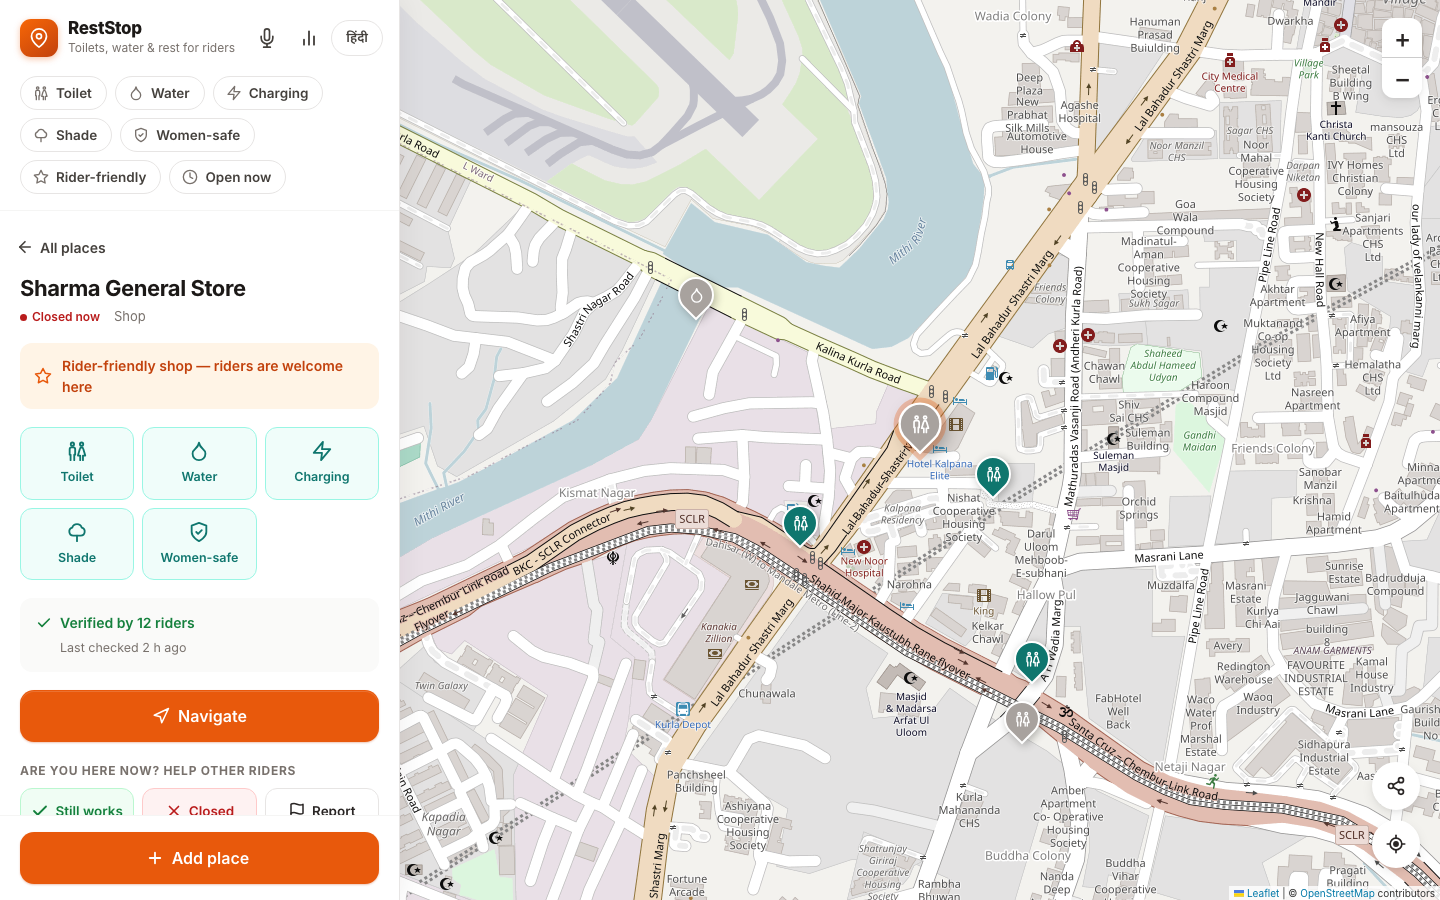
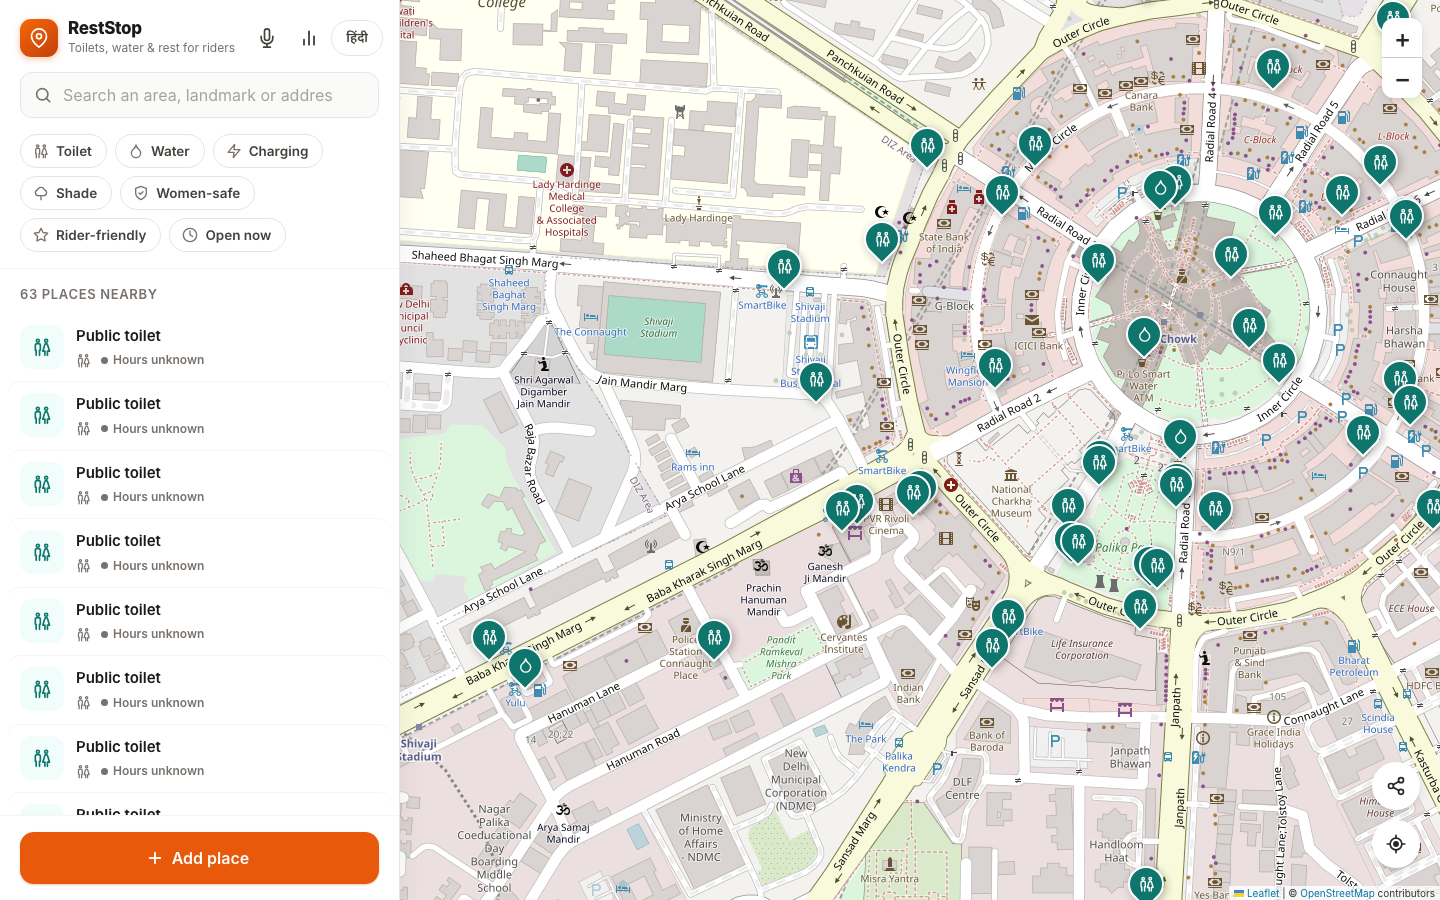
Rewrite README with real Delhi screenshots, architecture and API docs

diff --git a/README.md b/README.md
@@ -1,115 +1,135 @@
 <div align="center">
 
-<img src="static/icons/icon-192.png" width="88" alt="RestStop logo">
+<img src="static/icons/icon-192.png" width="96" alt="RestStop logo">
 
 # RestStop
 
-**Toilets, drinking water, charging and shade for the people who deliver our cities.**
+### Toilets, drinking water, charging and shade for the people who deliver our cities.
 
 A crowdsourced, rider-verified map built for delivery and gig workers, in Hindi and English.
 
-*Built for the **Hack the Unseen** hackathon.*
+[![Python](https://img.shields.io/badge/Python-3.10+-3776AB?logo=python&logoColor=white)](https://www.python.org/)
+[![Flask](https://img.shields.io/badge/Flask-3.1-000000?logo=flask&logoColor=white)](https://flask.palletsprojects.com/)
+[![Supabase](https://img.shields.io/badge/Supabase-Postgres%20%2B%20PostGIS-3FCF8E?logo=supabase&logoColor=white)](https://supabase.com/)
+[![Leaflet](https://img.shields.io/badge/Leaflet-1.9-199900?logo=leaflet&logoColor=white)](https://leafletjs.com/)
+[![OpenStreetMap](https://img.shields.io/badge/Data-OpenStreetMap-7EBC6F?logo=openstreetmap&logoColor=white)](https://www.openstreetmap.org/)
+[![PWA](https://img.shields.io/badge/PWA-installable-5A0FC8?logo=pwa&logoColor=white)](#features)
 
-![Python](https://img.shields.io/badge/Python-3.10+-3776AB?logo=python&logoColor=white)
-![Flask](https://img.shields.io/badge/Flask-3.1-000000?logo=flask&logoColor=white)
-![Supabase](https://img.shields.io/badge/Supabase-PostGIS-3FCF8E?logo=supabase&logoColor=white)
-![Leaflet](https://img.shields.io/badge/Leaflet-1.9-199900?logo=leaflet&logoColor=white)
-![PWA](https://img.shields.io/badge/PWA-installable-5A0FC8?logo=pwa&logoColor=white)
+**Built for the _Hack the Unseen_ hackathon**
+
+[The problem](#the-problem) · [Features](#features) · [How it works](#how-it-works) · [Getting started](#getting-started) · [API](#api-reference) · [Roadmap](#roadmap)
 
 </div>
 
-![RestStop on desktop](docs/screenshots/desktop.png)
+<br>
 
-## The unseen problem
+![RestStop on desktop: places around Connaught Place, New Delhi](docs/screenshots/desktop.png)
 
-Delivery riders spend long hours on the road, and when they need a toilet, drinking water, a place to charge their phone or some shade, **there's often nowhere to go.** Many shops turn them away and public facilities are hard to find. Women riders face this most.
+## The problem
 
-Everyone who orders food or a parcel depends on these workers, yet almost nobody thinks about where they rest. The problem hides in plain sight.
+Every day, delivery riders spend long hours on the road bringing us food, groceries and parcels. When they need a toilet, a drink of water, somewhere to charge their phone or a minute in the shade, **there's often nowhere to go.**
+
+- Many shops and restaurants turn riders away.
+- Public toilets and water points exist but are hard to find, and nobody knows which ones still work.
+- **Women riders** face this most, with very few places they can trust to be safe.
+
+Everyone depends on these workers, yet almost nobody thinks about where they rest. It's a problem hidden in plain sight, and that's what *Hack the Unseen* asked us to find.
 
 ## The solution
 
-RestStop is a map of places where riders are welcome:
+**RestStop** is a map of places where riders are welcome, built and kept accurate by riders themselves.
 
-1. **Find:** the nearest toilet, water point, charging point or shade, filtered for what's needed right now.
-2. **Verify:** riders confirm a place still works, or flag that it's closed, so the map stays trustworthy.
-3. **Welcome:** shop owners mark their shop as *rider-friendly* and open their doors.
+| 🔎 Find | ✅ Verify | 🤝 Welcome |
+|:---|:---|:---|
+| See the nearest toilet, water point, charging point or shade, filtered for what's needed right now. | Riders confirm a place still works or flag that it's closed, so the map stays trustworthy. | Shop owners mark their shop as **rider-friendly** and open their doors. |
 
-It's seeded with real public toilets and water points from OpenStreetMap, so it's useful from the first day, and the community fills in the rest.
+It launches with **1,200+ real public toilets and water points across Delhi**, imported from OpenStreetMap, so it's useful from the first day. The community fills in the rest.
 
 ## Screenshots
 
 <p align="center">
-  <img src="docs/screenshots/mobile.png" alt="RestStop on mobile: map, place details and add place">
+  <img src="docs/screenshots/mobile.png" alt="RestStop on mobile: nearby list, location search and place details">
 </p>
+<p align="center"><sub><b>Mobile:</b> nearby places · search any area or landmark · place details with rider verification</sub></p>
 
-<p align="center"><em>Mobile: nearby map, place details with rider verification, and adding a new place</em></p>
+<br>
 
 <p align="center">
-  <img src="docs/screenshots/impact.png" width="720" alt="RestStop impact dashboard">
+  <img src="docs/screenshots/impact.png" width="760" alt="RestStop live impact dashboard">
 </p>
-
-<p align="center"><em>Live impact dashboard</em></p>
+<p align="center"><sub><b>Live impact dashboard</b>, updated as riders add and verify places</sub></p>
 
 ## Features
 
-| | Feature | Details |
-|---|---|---|
-| 🗺 | **Nearby map** | Places near the rider's live location, nearest first |
-| 📍 | **Location search** | Search any area, landmark or address with suggestions as you type, then see or add places there |
-| 🔍 | **Smart filters** | Toilet, water, charging, shade, women-safe, rider-friendly, open now |
-| ✅ | **Rider verification** | "Verified by 12 riders, last checked 2 h ago" |
-| ⚑ | **Problem reports** | Dirty, unsafe, wrong location, not allowed in |
-| ➕ | **Add a place** | Pin on the map, facilities, hours and a photo (compressed on the phone) |
-| ⭐ | **Rider-friendly shops** | Owners welcome riders and get a badge on the map |
-| 🇮🇳 | **Hindi and English** | One-tap language switch across the whole app |
-| 🎤 | **Voice search** | Say "पानी" or "toilet" while riding (Chrome) |
-| 🛡 | **Safety share** | Send your live location to someone on WhatsApp in one tap |
-| 🧭 | **Navigate** | Opens Google Maps two-wheeler directions |
-| ⚡ | **Live updates** | New places appear on every open map instantly |
-| 📊 | **Impact dashboard** | Live totals of places, verifications and riders |
-| 📱 | **Installable app** | Add to home screen, and the app shell loads offline |
+**Finding a place**
+- 🗺 **Nearby map and list:** places around the rider's live location, nearest first
+- 📍 **Location search:** any area, landmark or address, with suggestions as you type
+- 🔍 **Filters:** toilet · water · charging · shade · women-safe · rider-friendly · open now
+- 🧭 **One-tap navigation:** opens Google Maps two-wheeler directions
+- 🎤 **Voice search:** say *"पानी"* or *"toilet"* without typing while on the bike
+- 🧭 **Never a dead end:** if nothing is nearby, RestStop points to the nearest matching place
+
+**Keeping it trustworthy**
+- ✅ **Rider verification:** *"Verified by 12 riders · last checked 2 h ago"*
+- ⚑ **Problem reports:** dirty, unsafe, wrong location or not allowed in
+- 🔴 **Doubtful places fade out** when more riders report them closed than working
+
+**Growing the map**
+- ➕ **Add a place in under a minute:** search or drop a pin, tick facilities, add hours and a photo
+- ⭐ **Rider-friendly shops:** owners welcome riders and get a badge on the map
+- ⚡ **Live updates:** a new place appears on every open map instantly
+
+**Built for riders**
+- 🇮🇳 **Hindi and English** across the whole app, switched with one tap
+- 🛡 **Safety share:** send your live location on WhatsApp in one tap
+- 📱 **Installable app:** add to the home screen, and it opens offline
+- 👆 **Large buttons** for use on the move, and photos are compressed on the phone to save data
+
+## How it works
+
+```mermaid
+flowchart LR
+    A["📱 Rider's phone<br/>HTML · CSS · JS · Leaflet"] -- "REST /api/*" --> B["🐍 Flask API<br/>validation · rate limits<br/>photo uploads · search proxy"]
+    B -- "supabase-py" --> C[("🟢 Supabase<br/>Postgres + PostGIS<br/>Storage · Realtime")]
+    C -. "live new places<br/>(read-only key)" .-> A
+    B -- "location search" --> D["🌍 Photon / Nominatim"]
+    E["🗺 OpenStreetMap<br/>Overpass API"] -- "seed_osm.py" --> C
+```
+
+1. The phone sends its location to **`/api/places`**.
+2. Flask calls the **`nearby_places`** PostGIS function, which returns places within the visible area, nearest first, with verification counts.
+3. Riders' actions (add, verify, report) go through Flask, which **validates every field**, checks photo type and size, and **rate-limits** each rider.
+4. New places are broadcast through **Supabase Realtime**, so every open map updates.
+
+### Security and privacy
+
+- The **secret service key never leaves the server**. The browser only receives the public anon key.
+- **Row-level security** limits that public key to *reading* places. All writes go through the API.
+- Riders are **anonymous**: identified only by a random ID stored on their device, with no sign-up and no personal data.
+- A rider's location is used only to find nearby places and **is not saved in the database**. Only the locations of places that riders add are saved.
 
 ## Tech stack
 
-| Layer | Technology |
-|---|---|
-| Frontend | HTML, CSS and JavaScript, no framework or build step |
-| Map | Leaflet 1.9.4 with OpenStreetMap tiles |
-| Backend | Python 3 and Flask |
-| Database | Supabase: Postgres with **PostGIS** for nearest-place queries |
-| File storage | Supabase Storage (place photos) |
-| Live updates | Supabase Realtime |
-| Seed data | OpenStreetMap Overpass API |
-| Voice | Web Speech API (`hi-IN`, `en-IN`) |
-
-### Architecture
-
-```
-┌──────────────────────────┐      fetch /api/*       ┌───────────────────┐   supabase-py   ┌──────────────────────────┐
-│  Phone / laptop browser  │ ──────────────────────► │   Flask (app.py)  │ ──────────────► │         Supabase         │
-│  HTML · CSS · JS         │                         │   validation,     │                 │  Postgres + PostGIS      │
-│  Leaflet map             │ ◄────────────────────── │   rate limiting,  │ ◄────────────── │  Storage (photos)        │
-└────────────┬─────────────┘         JSON            │   photo uploads   │                 │  Realtime                │
-             │                                       └───────────────────┘                 └────────────┬─────────────┘
-             └────────────── Realtime subscription (read-only public key) ──────────────────────────────┘
-```
-
-**Security:** the secret service key lives only on the server in `.env`. The browser only receives the public anon key, and row-level security limits that key to *reading* places. All writes go through Flask, which validates every field, checks photo type and size, and rate-limits each rider.
+| Layer | Technology | Why |
+|---|---|---|
+| Frontend | HTML, CSS and JavaScript | No build step, fast on low-end phones |
+| Map | [Leaflet](https://leafletjs.com/) + OpenStreetMap tiles | Free and open, no API key |
+| Backend | Python, [Flask](https://flask.palletsprojects.com/) | Simple, readable API |
+| Database | [Supabase](https://supabase.com/): Postgres + **PostGIS** | Fast geographic queries |
+| Storage | Supabase Storage | Place photos |
+| Realtime | Supabase Realtime | Live map updates |
+| Search | [Photon](https://photon.komoot.io/), with [Nominatim](https://nominatim.org/) as fallback | OpenStreetMap-based, no API key |
+| Seed data | [Overpass API](https://overpass-api.de/) | Real public toilets and water points |
+| Voice | Web Speech API | Hindi (`hi-IN`) and English (`en-IN`) |
 
 ## Getting started
 
 ### Prerequisites
 
 - **Python 3.10+.** On macOS, run `brew install python@3.12`; the built-in Python 3.9 has an outdated SSL library.
-- A free [Supabase](https://supabase.com) account.
+- A free [Supabase](https://supabase.com) account
 
-### 1. Set up Supabase
-
-1. Create a new project.
-2. Open **SQL Editor**, paste the full contents of [`schema.sql`](schema.sql) and click **Run**. This creates the tables, PostGIS functions, security policies, Realtime publication and the `photos` storage bucket.
-3. From **Project Settings → API**, copy the **Project URL**, the **anon** (publishable) key and the **service_role** (secret) key.
-
-### 2. Install
+### 1. Clone and install
 
 ```bash
 git clone https://github.com/anshrjpt/reststop.git
@@ -118,23 +138,42 @@ cd reststop
 python3.12 -m venv .venv
 source .venv/bin/activate          # Windows: .venv\Scripts\activate
 pip install -r requirements.txt
-
-cp .env.example .env               # then fill in your Supabase values
 ```
+
+### 2. Set up Supabase
+
+1. Create a new project. Pick the region closest to your users, such as **South Asia (Mumbai)**.
+2. Open **SQL Editor**, paste the full contents of [`schema.sql`](schema.sql) and click **Run**. This creates the tables, PostGIS functions, security policies, Realtime publication and the `photos` storage bucket. It's safe to re-run.
+3. Under **Project Settings → API Keys → Legacy API keys**, copy the **anon** and **service_role** keys, and copy the **Project URL** from **Project Settings → Data API**.
+4. Create your environment file:
+
+   ```bash
+   cp .env.example .env
+   ```
+
+   ```ini
+   SUPABASE_URL=https://your-project-ref.supabase.co
+   SUPABASE_SERVICE_KEY=your-service-role-key   # secret, server only
+   SUPABASE_ANON_KEY=your-anon-key              # public, enables live updates
+   PORT=8000
+   ```
+
+> [!WARNING]
+> Never commit `.env` or share the `service_role` key publicly; it has full access to your database. `.env` is already in `.gitignore`.
 
 ### 3. Load real data
 
-Import public toilets and water points from OpenStreetMap around any location:
+Import public toilets and drinking water points from OpenStreetMap around any location:
 
 ```bash
-# Example: 8 km around Connaught Place, New Delhi
-python seed_osm.py --lat 28.6315 --lng 77.2167 --radius 8000 --dry-run                          # preview
-python seed_osm.py --lat 28.6315 --lng 77.2167 --radius 8000 --cache osm_cache_delhi.json      # import
+# 20 km around Connaught Place, New Delhi
+python seed_osm.py --lat 28.6315 --lng 77.2167 --radius 20000 --dry-run                          # preview
+python seed_osm.py --lat 28.6315 --lng 77.2167 --radius 20000 --cache osm_cache_delhi.json      # import
 ```
 
-The public OpenStreetMap servers are often busy. The script retries across several mirrors, and `--cache` saves the download so a re-run doesn't fetch it again. Re-running is safe: existing places are updated, not duplicated.
-
-The map opens on New Delhi by default. To change the area, set `DEFAULT_CENTER` at the top of [`static/js/common.js`](static/js/common.js).
+- Re-running is safe: existing places are updated, not duplicated.
+- The public servers are often busy. The script retries across four mirrors, and `--cache` saves the download so a re-run skips it.
+- The map opens on New Delhi. For another city, change `DEFAULT_CENTER` in [`static/js/common.js`](static/js/common.js).
 
 ### 4. Run
 
@@ -144,78 +183,97 @@ python app.py
 
 Open **http://localhost:8000**.
 
-### 5. Use it on a phone
+### 5. Open it on a phone
 
-Browsers only share location over HTTPS, so expose your local server through a tunnel:
+Browsers only share location over **HTTPS**, so expose the local server with a tunnel:
 
 ```bash
 brew install cloudflared
 cloudflared tunnel --url http://localhost:8000
 ```
 
-Open the printed `https://…trycloudflare.com` link on your phone.
+Open the printed `https://…trycloudflare.com` link on your phone. To install it like an app, use the Chrome menu → **Add to Home screen**.
 
 ## API reference
 
+All endpoints return JSON. Errors look like `{ "error": "message" }` with a 4xx or 5xx status.
+
 | Method | Endpoint | Description |
 |---|---|---|
-| `GET` | `/api/places` | Nearby places. Query: `lat`, `lng`, `radius` (m), `time` (HH:MM), and filters `toilet`, `water`, `charging`, `shade`, `women_safe`, `rider_friendly`, `open_now` (`=1`) |
+| `GET` | `/api/places` | Places near `lat`, `lng` within `radius` metres (100–25,000), nearest first. Optional filters set to `=1`: `toilet`, `water`, `charging`, `shade`, `women_safe`, `rider_friendly`, `open_now` (with `time=HH:MM`). If none match, also returns `nearest`. |
 | `GET` | `/api/places/<id>` | One place with verification counts |
-| `POST` | `/api/places` | Add a place (multipart form, optional `photo` up to 5 MB) |
-| `POST` | `/api/places/<id>/verify` | `{ "user_id", "status": "works" \| "closed" \| "denied" }` |
-| `POST` | `/api/places/<id>/report` | `{ "user_id", "reason": "dirty" \| "unsafe" \| "wrong_location" \| "denied_access" \| "other" }` |
-| `GET` | `/api/geocode?q=&lat=&lng=` | Location search (Photon, falling back to Nominatim), biased toward `lat`/`lng` |
+| `POST` | `/api/places` | Add a place (multipart form): `name`, `lat`, `lng`, `category`, facility flags, optional `open_time`/`close_time`, optional `photo` (JPEG, PNG or WebP, up to 5 MB) |
+| `POST` | `/api/places/<id>/verify` | `{ "user_id", "status": "works" \| "closed" \| "denied" }`, one vote per rider per place |
+| `POST` | `/api/places/<id>/report` | `{ "user_id", "reason": "dirty" \| "unsafe" \| "wrong_location" \| "denied_access" \| "other", "note"? }` |
+| `GET` | `/api/geocode` | Location search: `q`, plus optional `lat`/`lng` to rank nearby results first |
 | `GET` | `/api/stats` | Totals for the impact dashboard |
 | `GET` | `/api/config` | Public Realtime configuration |
+
+**Rate limits per rider:** 15 new places per hour, 60 verifications or reports per hour, 60 searches per minute.
 
 ## Project structure
 
 ```
-├── app.py               Flask API, also serves the frontend
-├── schema.sql           Database: tables, PostGIS functions, security, storage
-├── seed_osm.py          OpenStreetMap importer
+reststop/
+├── app.py                 Flask API, also serves the frontend
+├── schema.sql             Tables, PostGIS functions, security policies, storage
+├── seed_osm.py            OpenStreetMap importer
 ├── requirements.txt
-├── .env.example         Environment variable template
+├── .env.example           Environment template
 ├── docs/
-│   ├── TEAM.md          Team workflow, build plan and demo script
+│   ├── TEAM.md            Team workflow, demo script, troubleshooting
 │   └── screenshots/
 └── static/
-    ├── index.html       Map, list and place details
-    ├── add.html         Add a place
-    ├── dashboard.html   Impact dashboard
-    ├── css/style.css    Design system
-    ├── js/
-    │   ├── common.js    Language strings, API helper, rider ID
-    │   ├── map.js       Map, filters, verification, voice, realtime
-    │   ├── add.js       Add-place form and photo compression
-    │   └── dashboard.js Impact stats
-    ├── icons.svg        Icon set
-    ├── manifest.json    Installable app manifest
-    └── sw.js            Service worker
+    ├── index.html         Map, list and place details
+    ├── add.html           Add a place
+    ├── dashboard.html     Impact dashboard
+    ├── css/style.css      Design system
+    ├── icons.svg          Icon set
+    ├── manifest.json      Installable app manifest
+    ├── sw.js              Service worker
+    └── js/
+        ├── common.js      Hindi/English text, API helper, rider ID
+        ├── search.js      Location search box
+        ├── map.js         Map, filters, details, verification, voice, realtime
+        ├── add.js         Add-place form, pin picker, photo compression
+        └── dashboard.js   Impact stats
 ```
 
-## Impact and scale
+## Impact
 
-- **For riders:** less time searching, safer breaks, and a way for women riders to find women-safe places.
-- **For shops:** the rider-friendly badge brings footfall and goodwill.
-- **For delivery platforms:** the map could be built into rider apps as a welfare feature.
-- **For cities:** where riders search and find nothing shows exactly where public toilets and water points are missing.
+| For | What changes |
+|---|---|
+| **Riders** | Less time searching, safer breaks, and women-safe places they can find and trust |
+| **Shops** | The rider-friendly badge brings footfall and goodwill |
+| **Delivery platforms** | A ready-made welfare feature that could be built into rider apps |
+| **Cities** | Places where riders search and find nothing show exactly where public toilets and water points are missing |
 
 ## Roadmap
 
-- [ ] "Toilet desert" heatmap of areas with no facilities nearby, for city planners
-- [ ] QR stickers for rider-friendly shops: scan to verify
-- [ ] Phone-number login to strengthen verification trust
-- [ ] Facilities along a delivery route, not just near a point
-- [ ] More languages: Tamil, Telugu, Bengali, Marathi, Kannada
+- [ ] **"Toilet desert" heatmap:** areas with no facilities within 1 km, as evidence for city planners
+- [ ] **QR stickers** for rider-friendly shops: scan to verify instantly
+- [ ] **Phone-number login** to strengthen trust in verifications
+- [ ] **Facilities along a route,** not just near a point
+- [ ] **More languages:** Tamil, Telugu, Bengali, Marathi and Kannada
+- [ ] **Coverage for more cities:** Mumbai, Bengaluru, Hyderabad and Chennai
 
 ## Limitations
 
-- Data quality depends on the community. Verification counts and reports are the trust signal.
-- OpenStreetMap includes only tagged facilities. Riders add the rest, for example fuel stations whose toilets aren't tagged.
-- Riders are identified by an anonymous ID stored on their device. A production version would add phone login.
-- Voice search requires Chrome.
+- **Data quality depends on the community.** Verification counts and problem reports are the trust signal.
+- **OpenStreetMap data is incomplete.** Many imported places are unnamed ("Public toilet") or have no opening hours. Few are tagged with charging or women-safe information, which riders add.
+- **Anonymous IDs** can be reset by clearing browser data. A production version would add phone login.
+- **Voice search** requires Chrome.
 
 ## Acknowledgements
 
-Map data © [OpenStreetMap](https://www.openstreetmap.org/copyright) contributors · Maps by [Leaflet](https://leafletjs.com) · Backend by [Supabase](https://supabase.com) · Fonts: Inter and Noto Sans Devanagari
+- Map data © [OpenStreetMap](https://www.openstreetmap.org/copyright) contributors, available under the [ODbL](https://opendatacommons.org/licenses/odbl/)
+- Search by [Photon](https://photon.komoot.io/) (komoot) and [Nominatim](https://nominatim.org/)
+- Maps by [Leaflet](https://leafletjs.com/) · Backend by [Supabase](https://supabase.com/)
+- Fonts: [Inter](https://rsms.me/inter/) and [Noto Sans Devanagari](https://fonts.google.com/noto/specimen/Noto+Sans+Devanagari)
+
+<div align="center">
+<br>
+
+**RestStop: because the people who keep our cities running deserve a place to rest.**
+
+</div>
